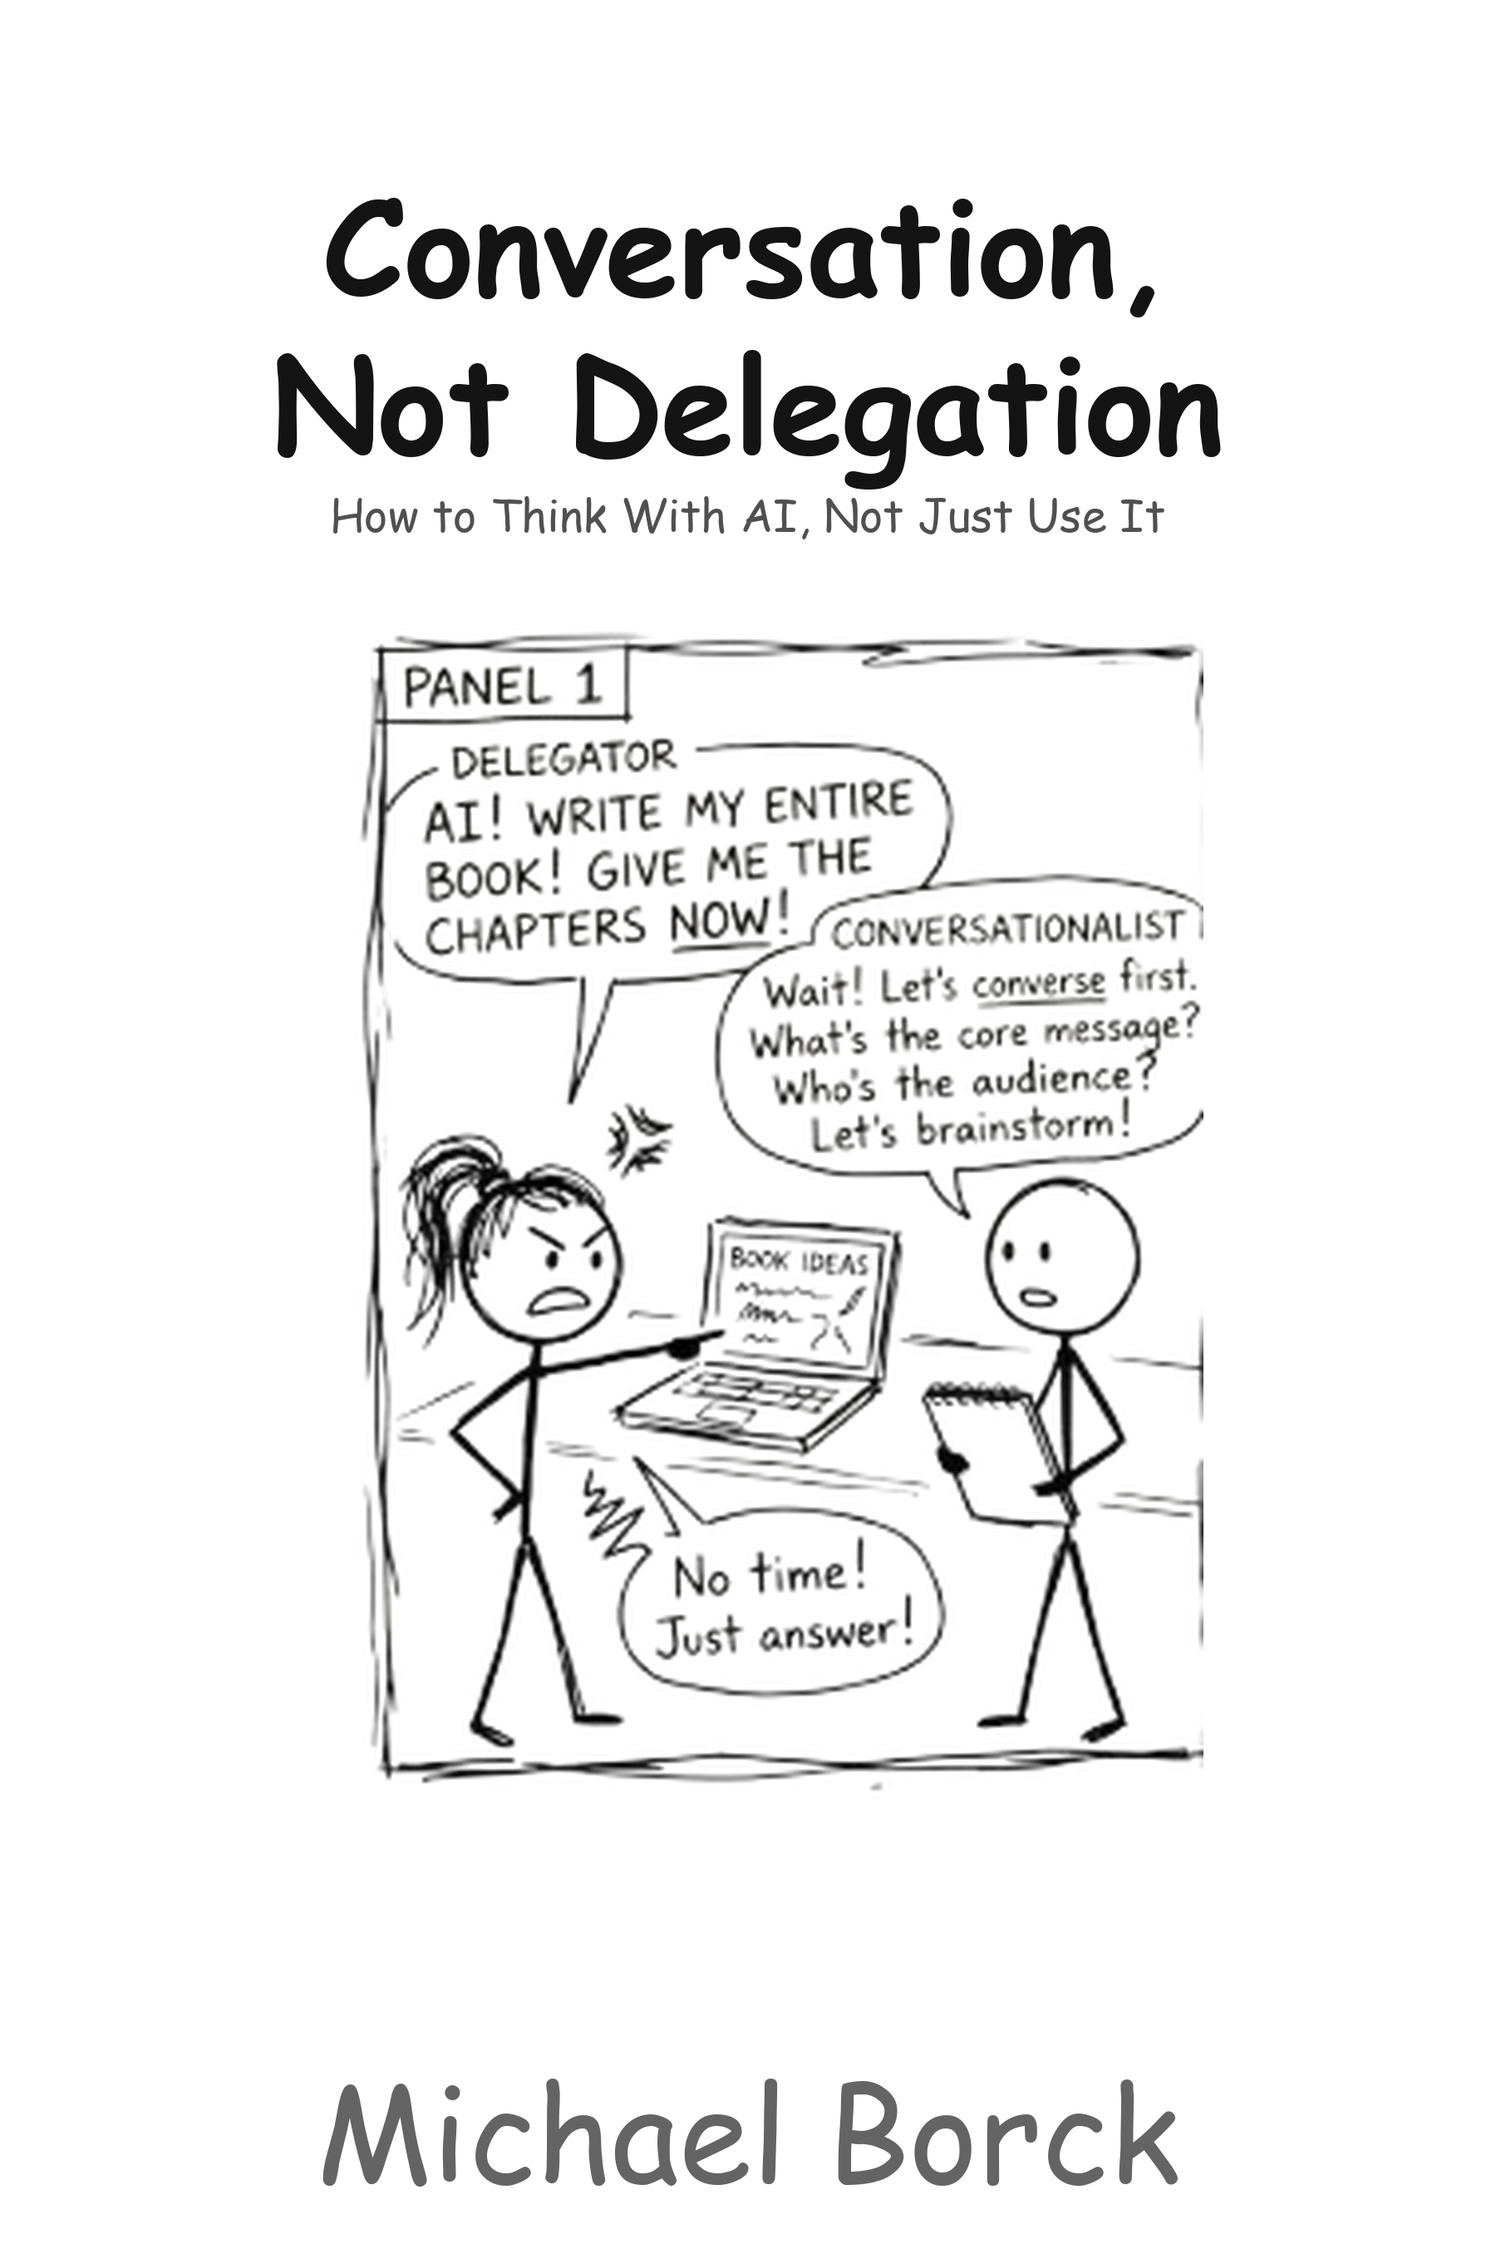
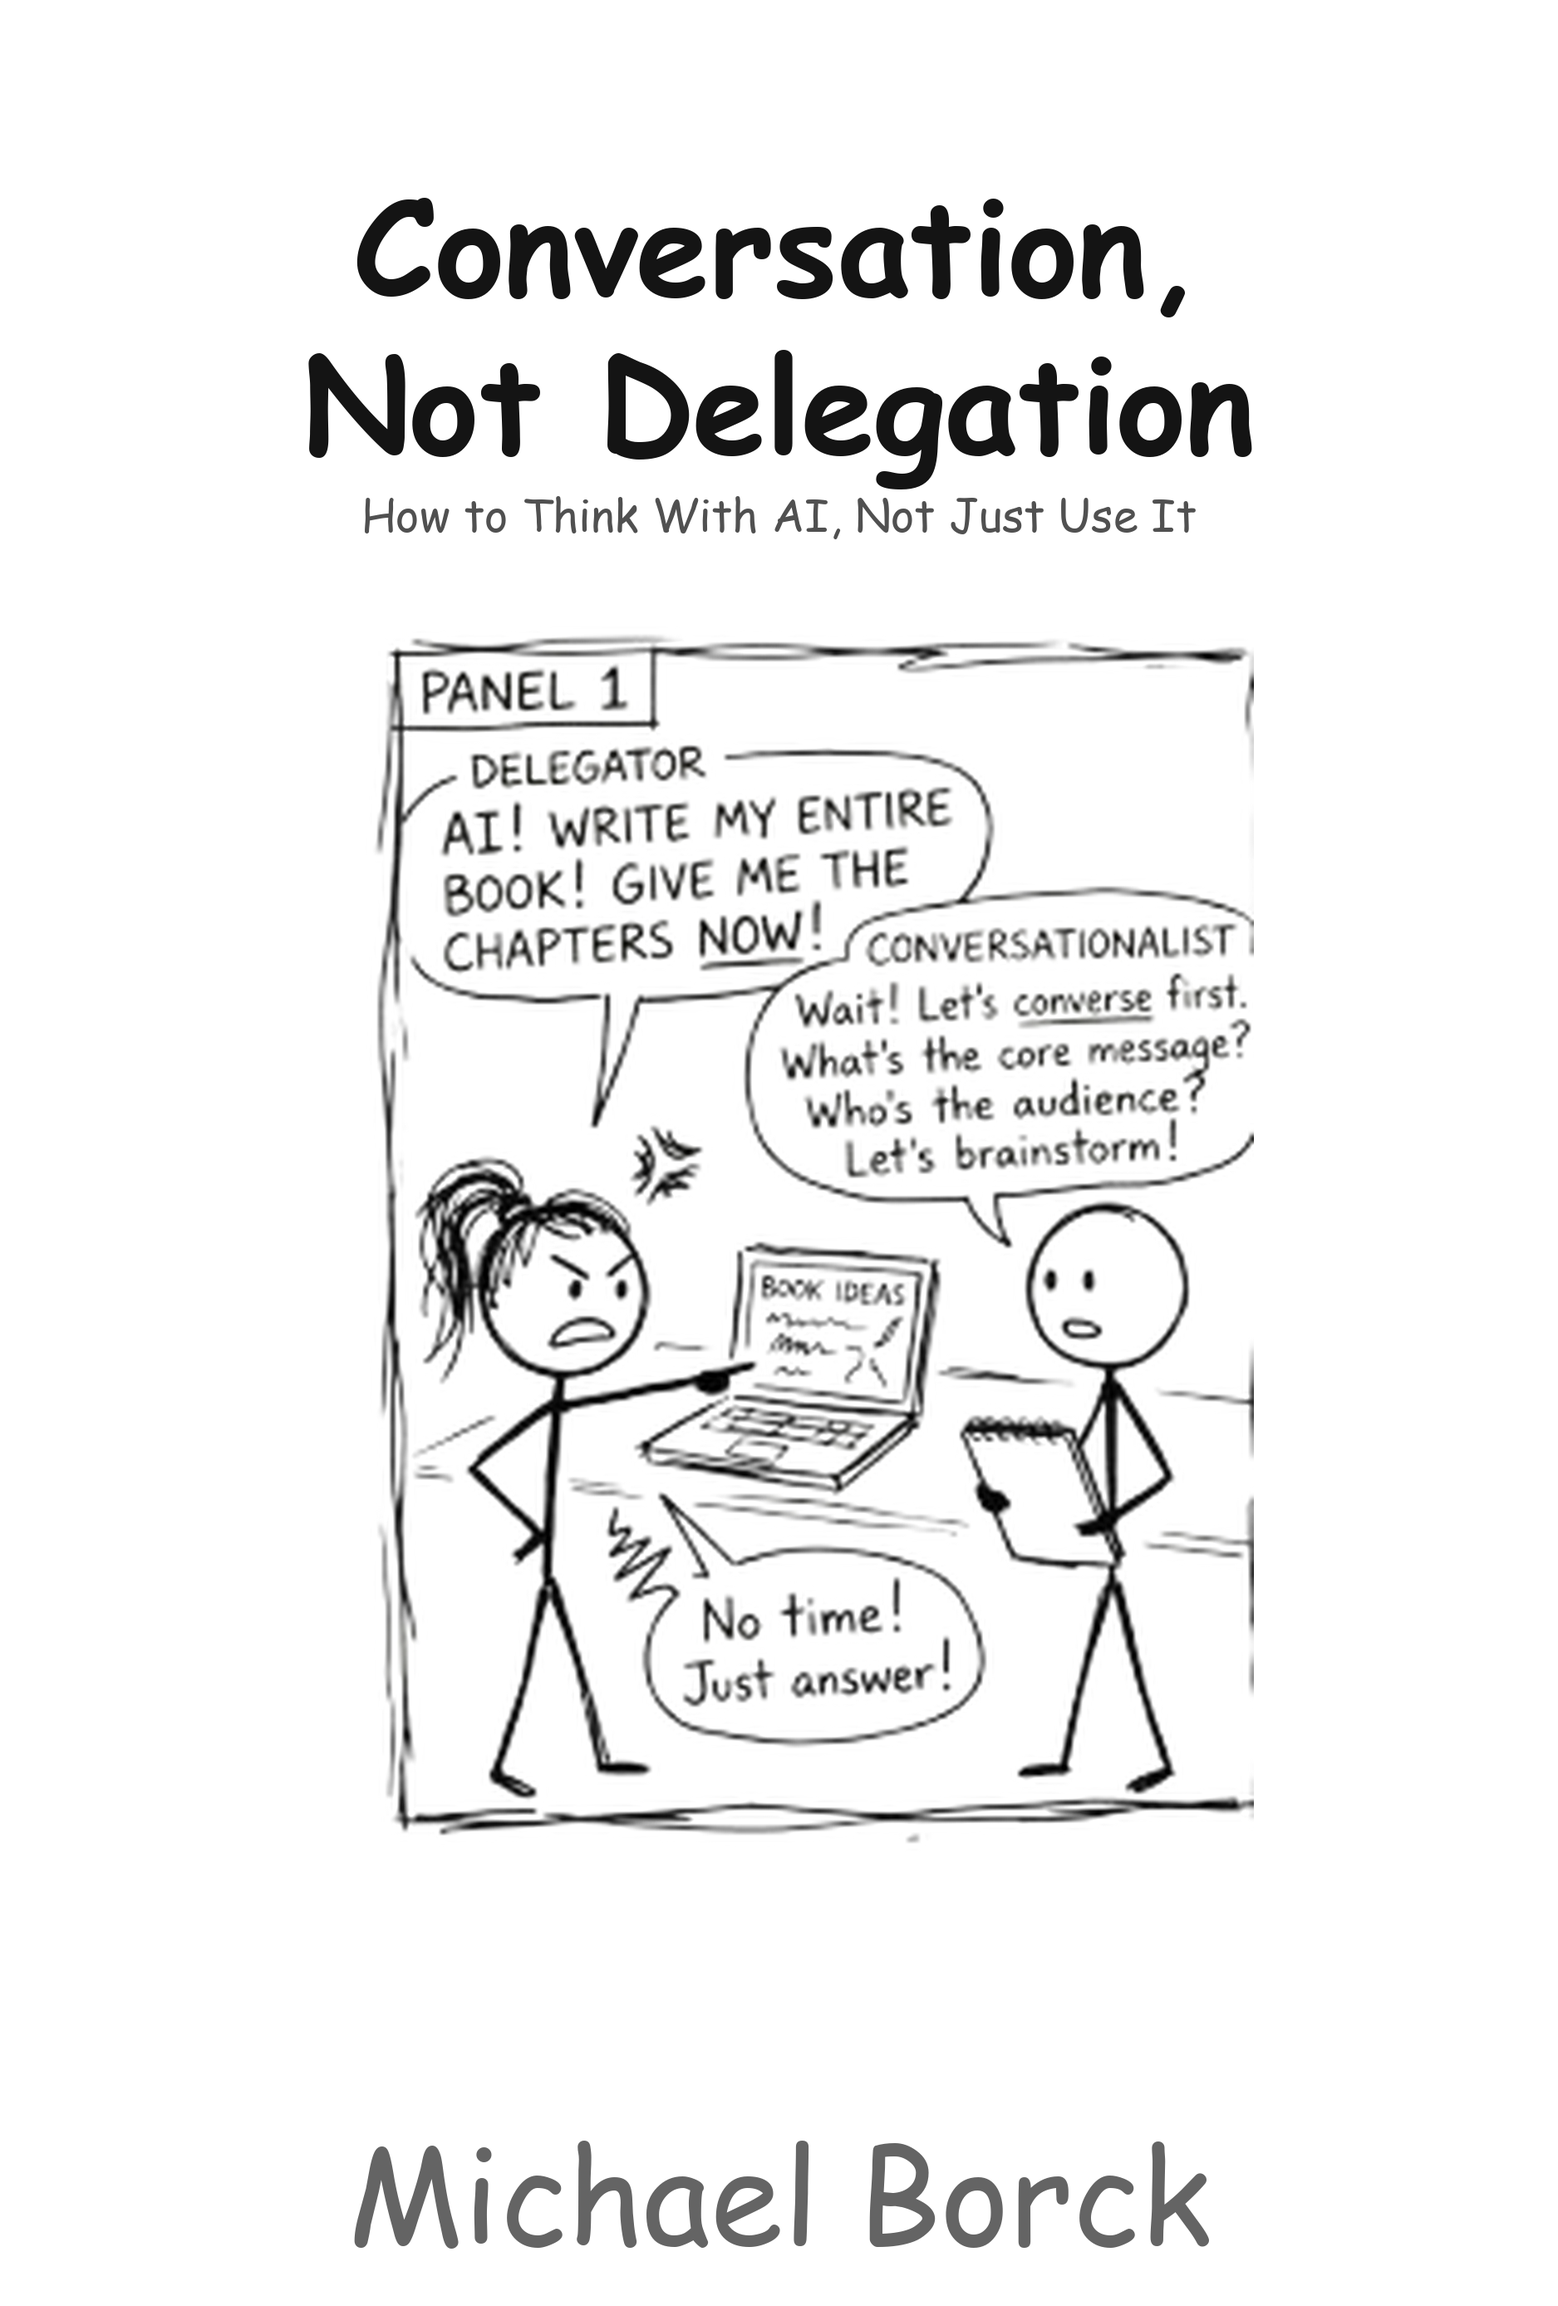
Increase cover to 1875x2775 to account for KDP bleed margins
KDP calculates DPI including 0.125" bleed on each edge, making
the effective area 6.25x9.25 not 6x9. Now exactly 300 DPI
with bleed factored in.

diff --git a/tools/create_cover_v3.py b/tools/create_cover_v3.py
@@ -11,8 +11,8 @@ Output: images/cover-v3.png (1800 x 2700 px, 300 DPI at 6x9 print)
 from pathlib import Path
 from PIL import Image, ImageDraw, ImageFont
 
-WIDTH = 1800
-HEIGHT = 2700
+WIDTH = 1875
+HEIGHT = 2775
 
 PROJECT_ROOT = Path(__file__).resolve().parent.parent
 COMIC_PATH = PROJECT_ROOT / "images" / "comic-strip" / "00-panel1.png"
